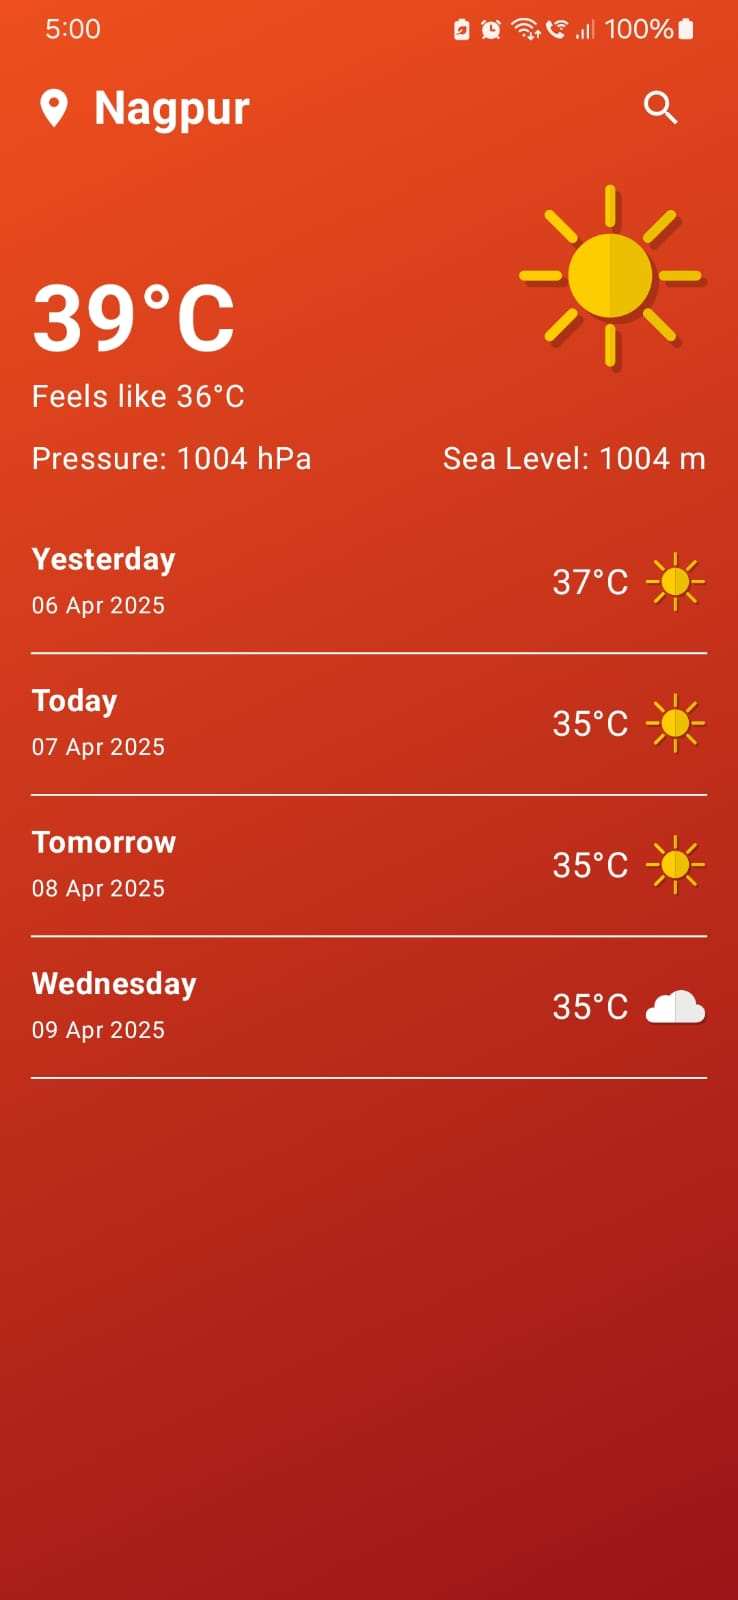
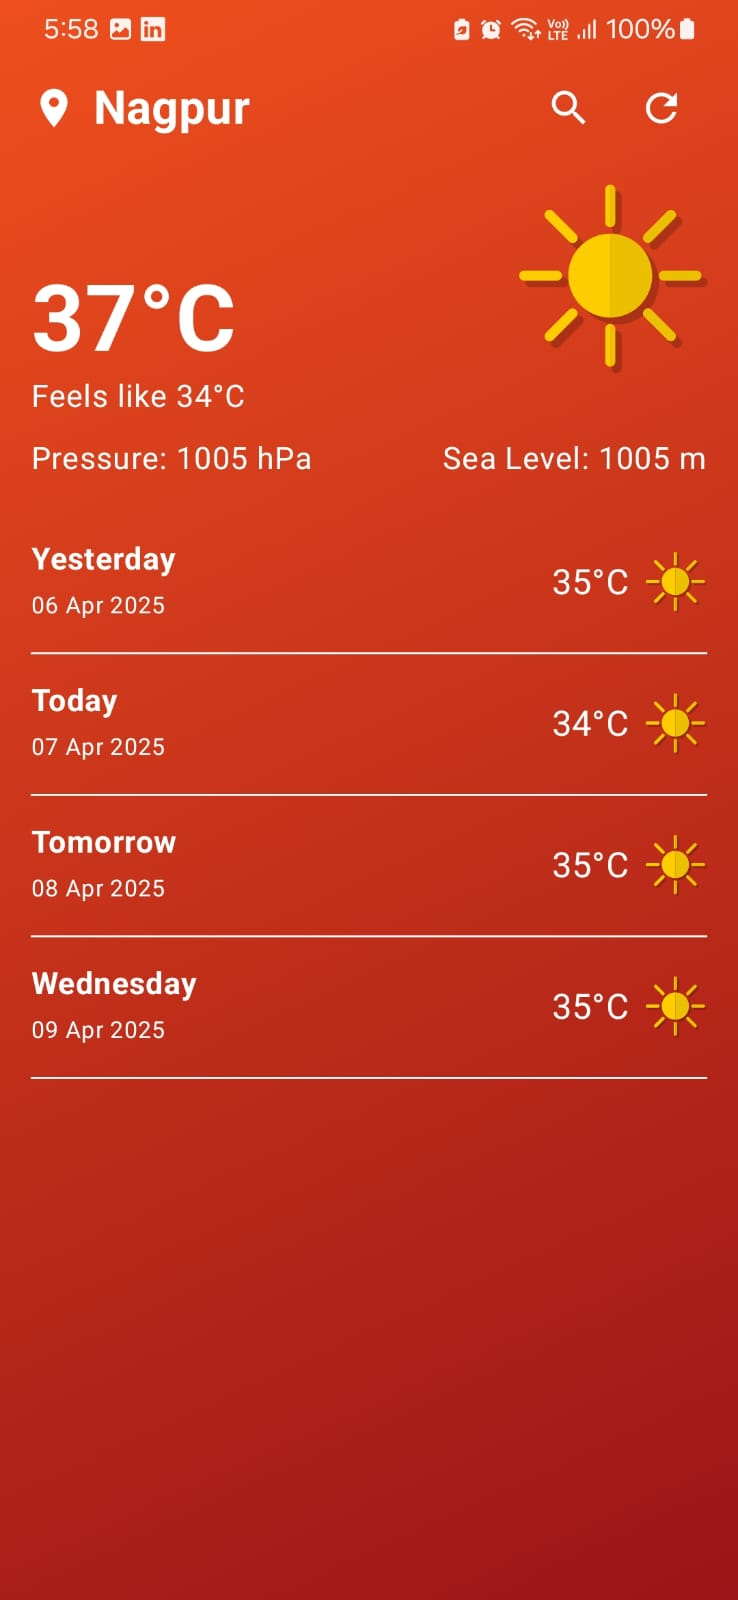
images updated

diff --git a/app/src/main/java/com/weather/skycast/home/presentation/HomeViewmodel.kt b/app/src/main/java/com/weather/skycast/home/presentation/HomeViewmodel.kt
@@ -1,8 +1,5 @@
 package com.weather.skycast.home.presentation
 
-import android.app.Activity
-import android.util.Log
-import androidx.compose.ui.platform.LocalContext
 import androidx.lifecycle.ViewModel
 import androidx.lifecycle.viewModelScope
 import com.weather.skycast.core.data.remote.Resource
@@ -64,11 +61,14 @@ class HomeViewModel @Inject constructor(
                     }
                 }
             }
+
+            is HomeAction.OnRefreshClick -> {
+                loadWeatherInfo()
+            }
         }
     }
 
     fun loadWeatherInfo() {
-        Log.d("viewmodel", "loadWeatherInfo called")
         viewModelScope.launch {
             _state.update {
                 it.copy(
@@ -79,7 +79,6 @@ class HomeViewModel @Inject constructor(
             locationTracker.getCurrentLocation()?.let { location ->
                 loadWeather(location.latitude, location.longitude)
             } ?: run {
-                Log.d("viewmodel", "loadWeatherInfo failed ")
 
                 _state.update {
                     it.copy(
@@ -98,7 +97,6 @@ class HomeViewModel @Inject constructor(
                 is Resource.Success -> {
                     val data = result.data
                     _state.update {
-                        Log.d("viewmodel", "loadWeatherInfo success - $data")
 
                         it.copy(
                             cityName = data?.city ?: "",

diff --git a/app/src/main/java/com/weather/skycast/home/presentation/HomeScreen.kt b/app/src/main/java/com/weather/skycast/home/presentation/HomeScreen.kt
@@ -13,6 +13,7 @@ import androidx.compose.foundation.layout.padding
 import androidx.compose.foundation.layout.width
 import androidx.compose.material.icons.Icons
 import androidx.compose.material.icons.filled.LocationOn
+import androidx.compose.material.icons.filled.Refresh
 import androidx.compose.material.icons.filled.Search
 import androidx.compose.material3.Icon
 import androidx.compose.material3.IconButton
@@ -82,11 +83,21 @@ fun HomeScreen(
                 }
             }
 
-            IconButton(
-                onClick = { onAction(HomeAction.OnSearchClick) }
+            Row(
+                verticalAlignment = Alignment.CenterVertically
             ) {
-                Icon(Icons.Default.Search, contentDescription = "Search", tint = Color.White)
+                IconButton(
+                    onClick = { onAction(HomeAction.OnSearchClick) }
+                ) {
+                    Icon(Icons.Default.Search, contentDescription = "Search", tint = Color.White)
+                }
+                IconButton(
+                    onClick = { onAction(HomeAction.OnRefreshClick) }
+                ) {
+                    Icon(Icons.Default.Refresh, contentDescription = "Refresh", tint = Color.White)
+                }
             }
+
         }
 
         if (!state.isSearching) {

diff --git a/app/src/main/java/com/weather/skycast/home/presentation/component/HomeAction.kt b/app/src/main/java/com/weather/skycast/home/presentation/component/HomeAction.kt
@@ -3,6 +3,7 @@ package com.weather.skycast.home.presentation.component
 sealed class HomeAction {
     data class OnSearchTextChange(val text: String) : HomeAction()
     object OnSearchClick : HomeAction()
+    object OnRefreshClick : HomeAction()
     data class SubmitSearch(val city: String) : HomeAction()
     data class OnCitySelected(val lat: Double, val lon: Double) : HomeAction()
     object OnBackPressed : HomeAction()
